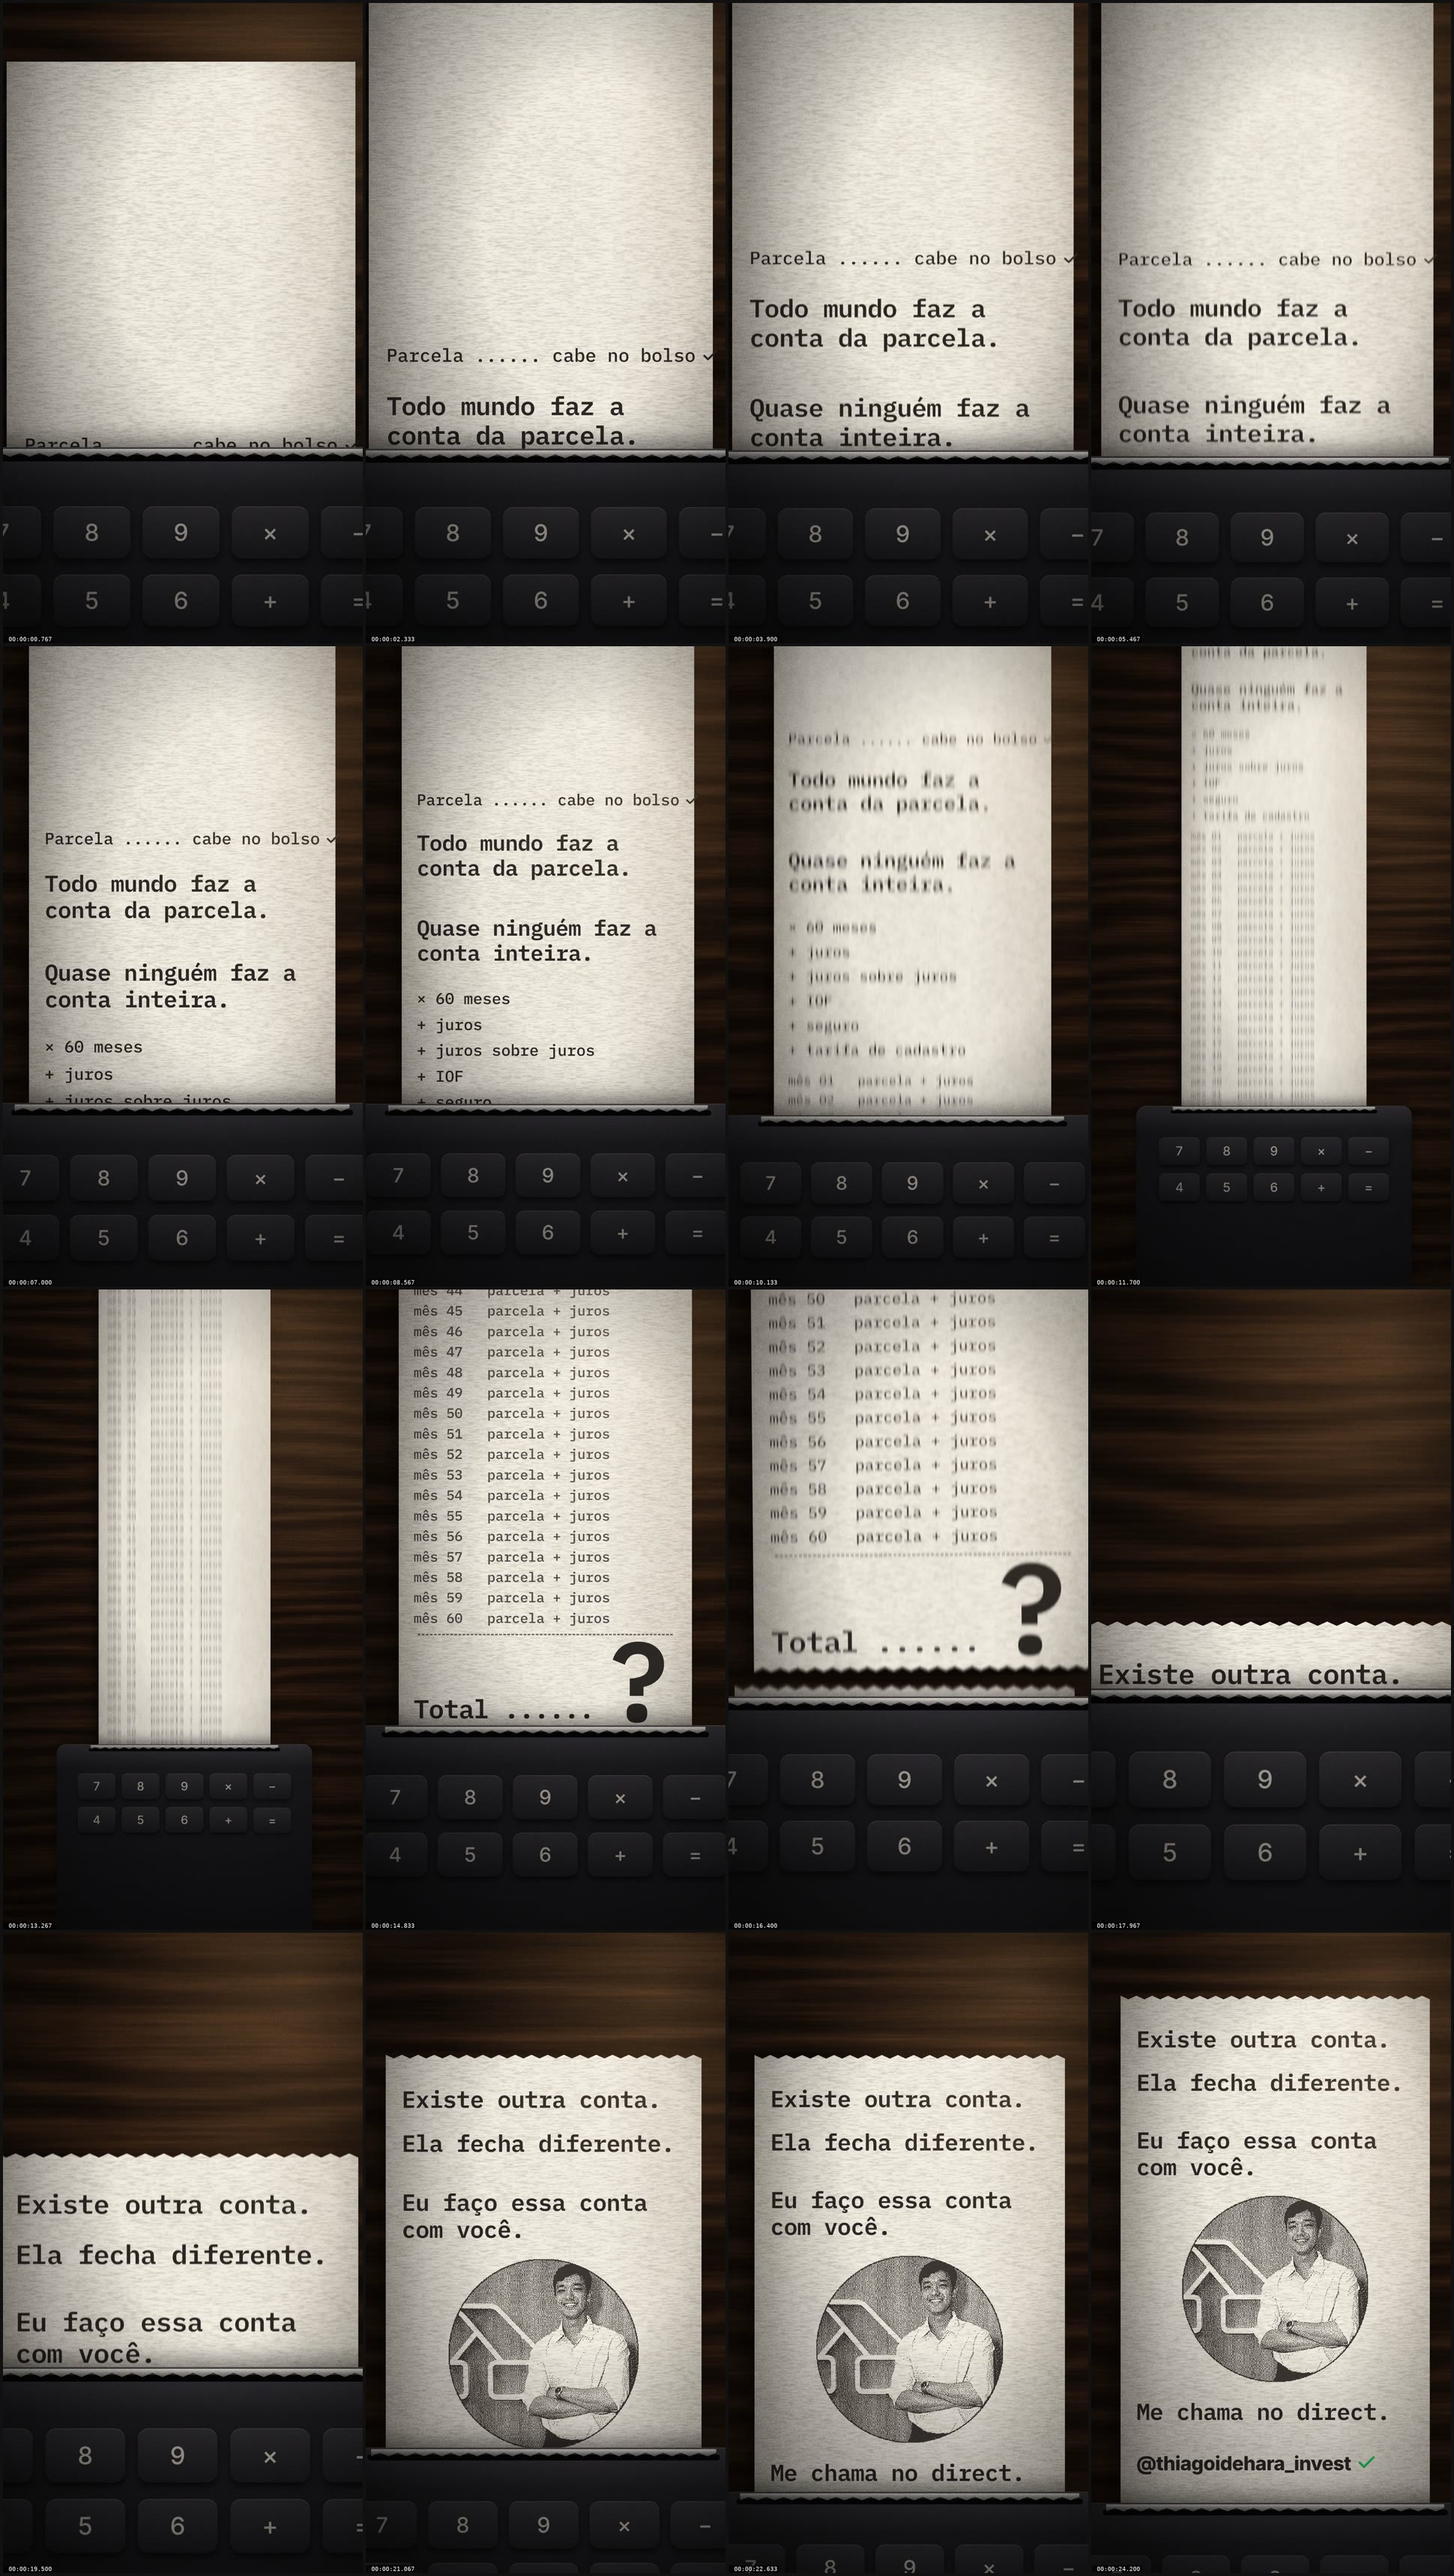
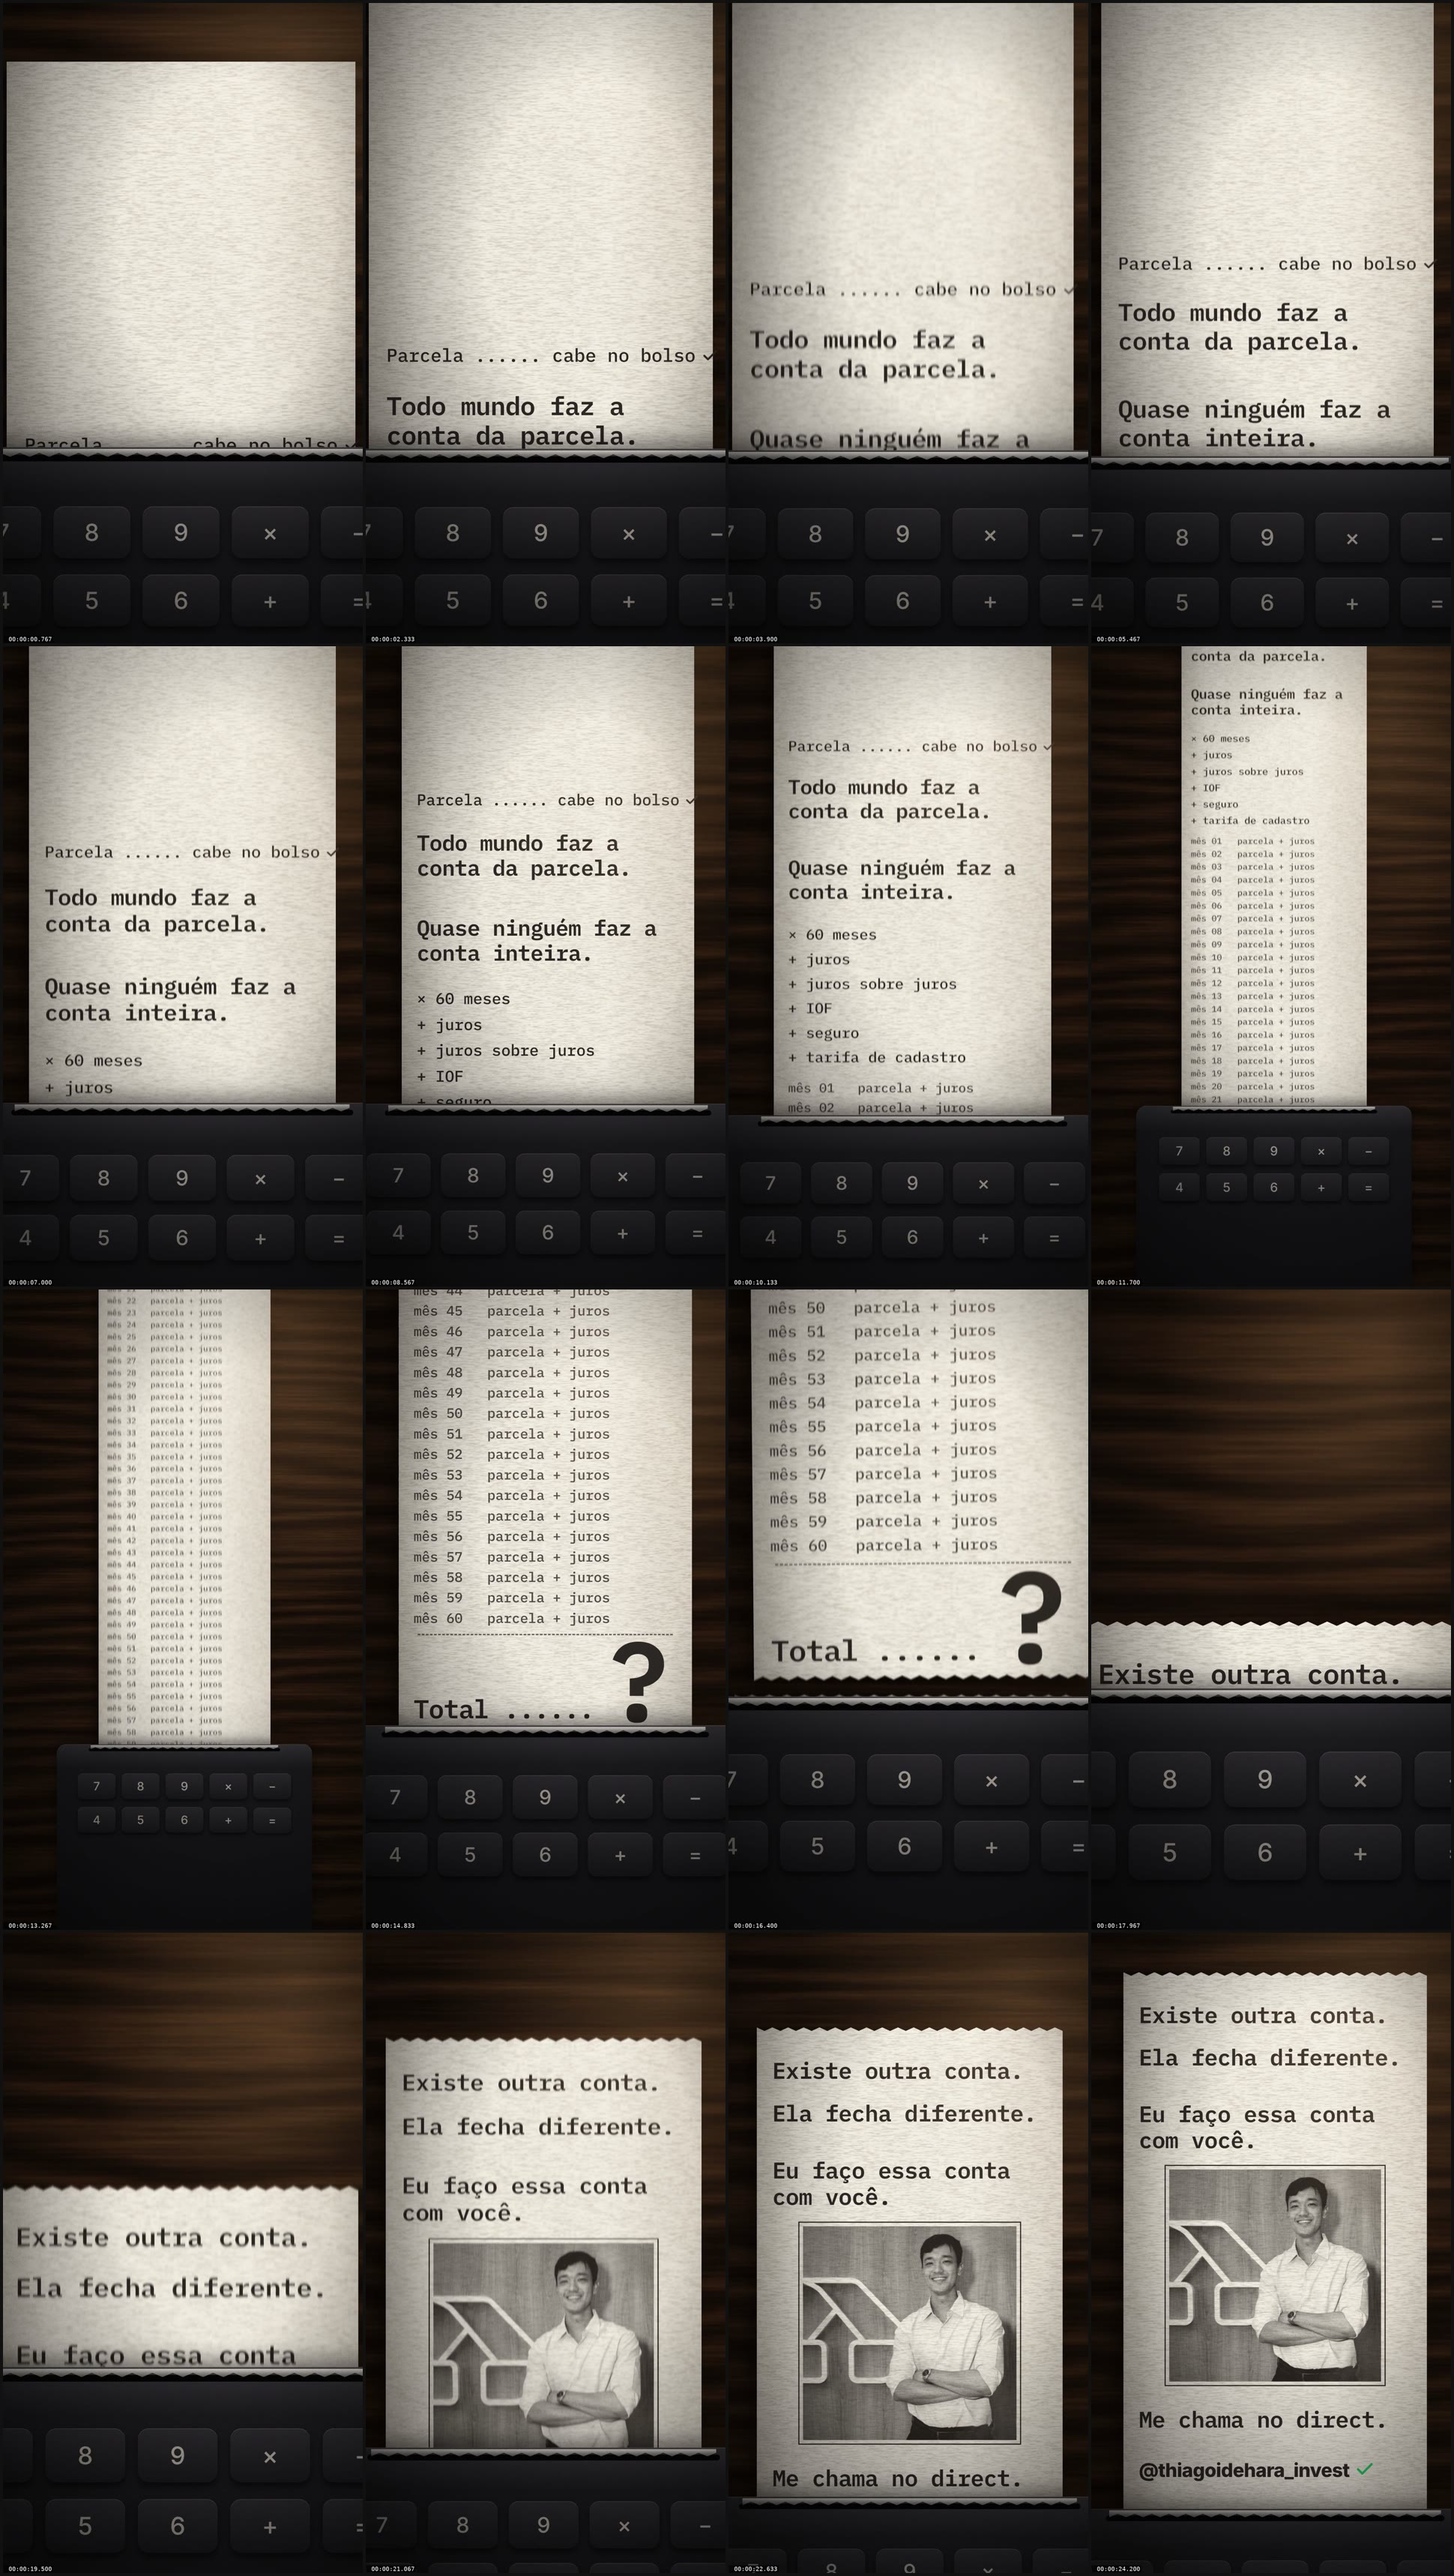
ThiagoCall v2: notes and look report
Claude-Session: https://claude.ai/code/session_012fgXwAcNofrdUAsijsnJFT

diff --git a/projects/thiago-call/NOTE.md b/projects/thiago-call/NOTE.md
@@ -1,5 +1,12 @@
 # NOTE: Thiago Idehara, convite para call (25 s)
 
+## Versão 2 (ajustes pedidos)
+- **Impressora:** o clique e o zumbido agudo de 1,2 kHz viraram um ruído suave de papel, cerca de 10 dB mais baixo.
+- **Letras em movimento:** a fita corre de forma contínua nos 60 meses, cada linha desliza com suavidade, o borrão direcional caiu para um terço e o grão ficou fixo e mais fraco.
+- **Foto:** enquadrada num quadrado. Os cantos foram completados com IA (LaMa, `fotos/thiago-enquadrado.png`) e a foto é impressa em tom contínuo, sem pontilhado, o que acabou com o efeito de tela de LED.
+- **Portões v2:** G0, G2 e G3 PASS (hold final de 1,20 s). Áudio em −14,7 LUFS, pico em −1,5 dBFS.
+
+
 **Arquivos:** `renders/thiago-call.mp4` (master, CRF 18) e `renders/thiago-call-instagram.mp4` (CRF 23, faststart, ~38 MB). O código está em `remotion-video/src/ThiagoCall/`.
 
 ## A ideia
